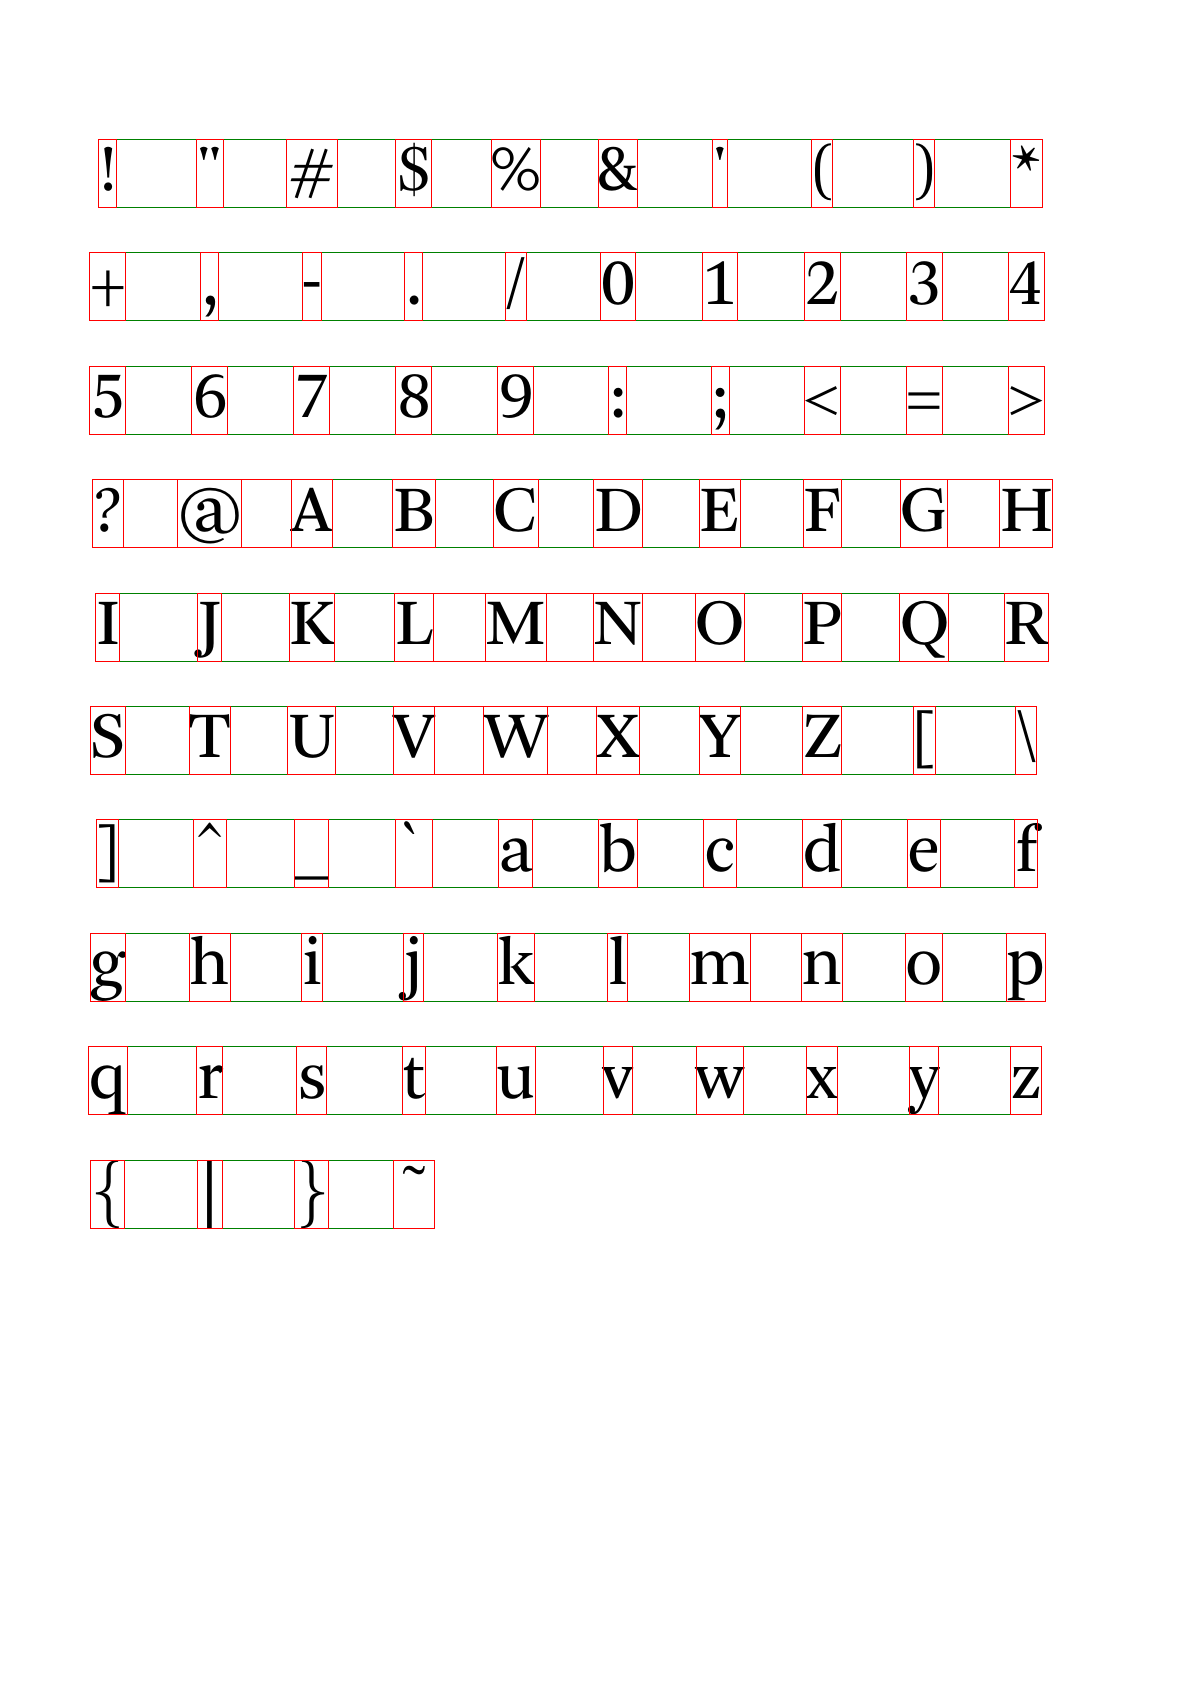
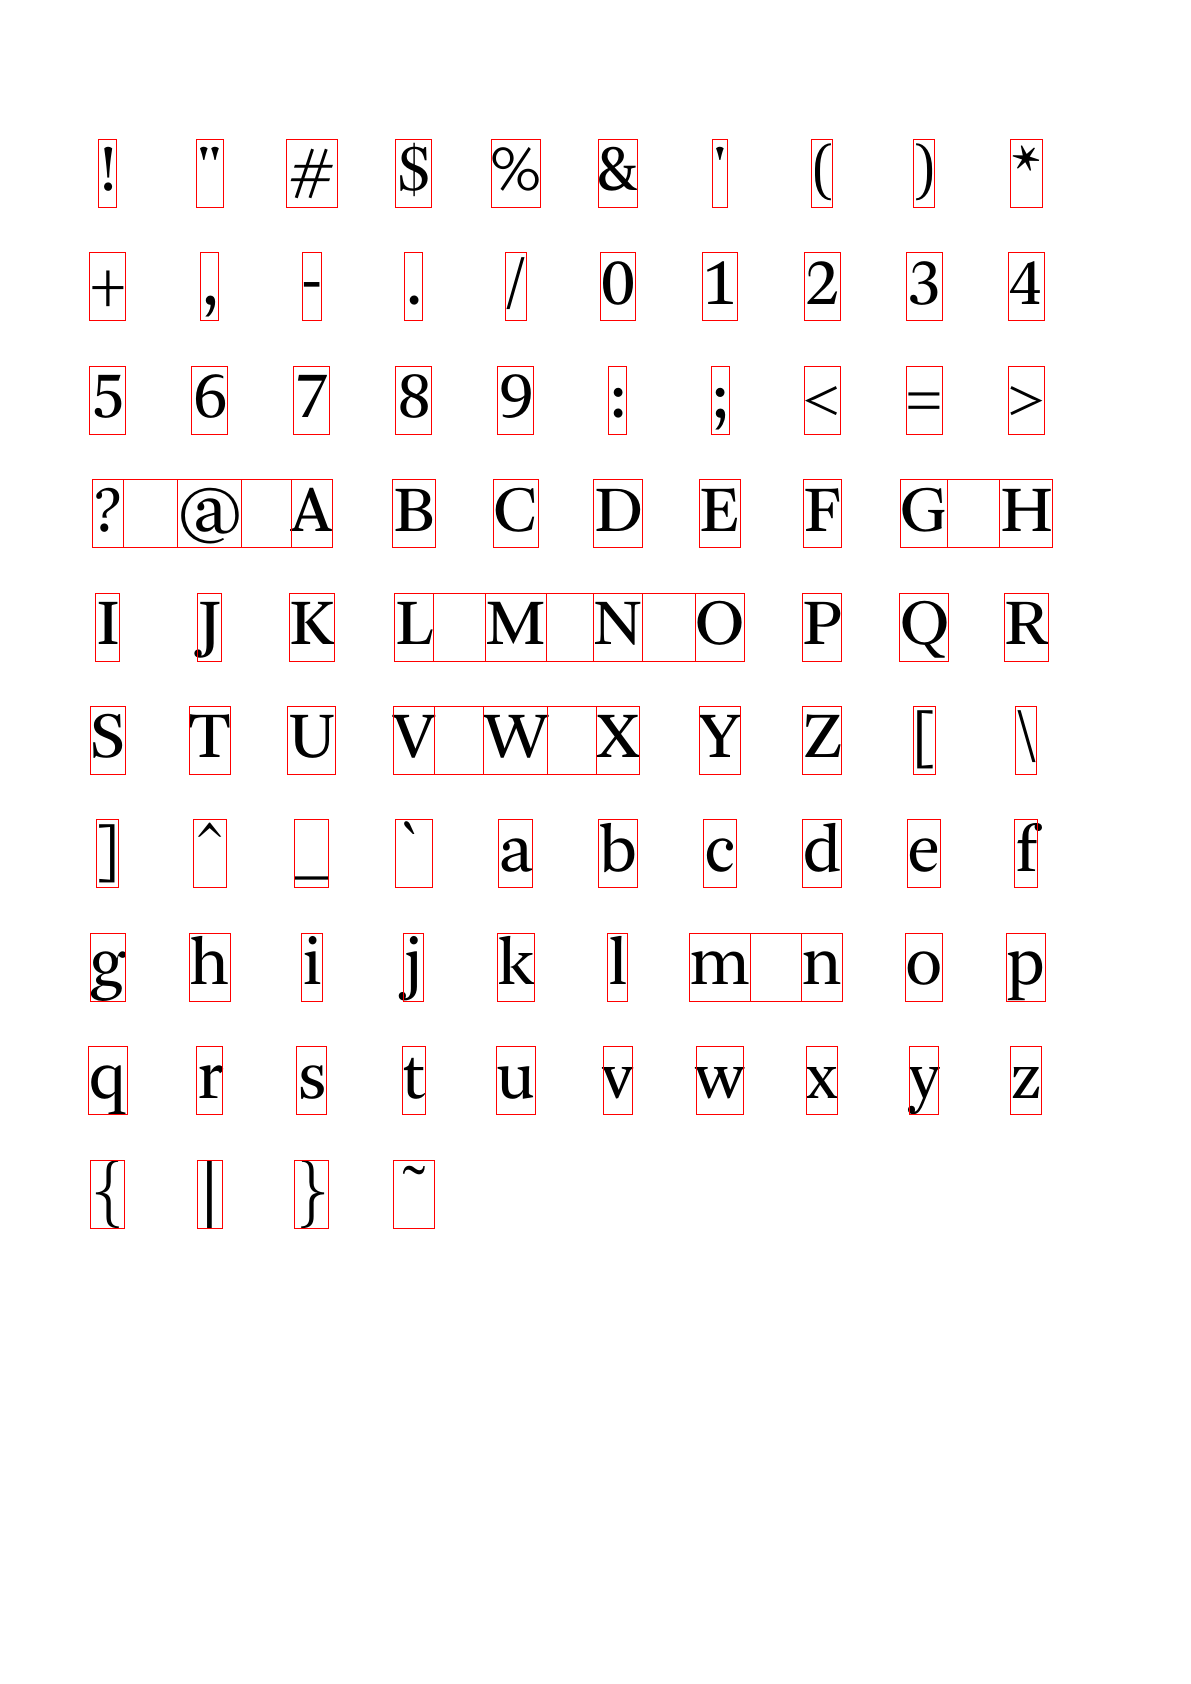
feat(tmp): remove block/line bboxes from Arnhem Blond investigation

diff --git a/tmp/arnhem-blond_bbox/analyze.py b/tmp/arnhem-blond_bbox/analyze.py
@@ -53,13 +53,12 @@ def analyze_and_draw(pdf_path, font_path, base_dir):
         b_bbox = [c * zoom for c in block["bbox"]]
         b_type = block["type"]
         
-        # Draw block bbox in green to distinguish from char bboxes
-        draw_glyph.rectangle(b_bbox, outline="green", width=1)
+        # REMOVED: draw_glyph.rectangle(b_bbox, outline="green", width=1)
         
         if b_type == 0: # Text block
             for line in block["lines"]:
                 l_bbox = [c * zoom for c in line["bbox"]]
-                draw_glyph.rectangle(l_bbox, outline="yellow", width=1)
+                # REMOVED: draw_glyph.rectangle(l_bbox, outline="yellow", width=1)
                 
                 for span in line["spans"]:
                     font_size = span["size"]

diff --git a/tmp/arnhem-blond_bbox/README.md b/tmp/arnhem-blond_bbox/README.md
@@ -18,8 +18,6 @@ Source: [FontsGeek - Arnhem Blond](https://fontsgeek.com/fonts/arnhem-blond/down
 ## Visualization Key
 -   **Red Rectangles**: Glyph BBox (theoretical).
 -   **Blue Rectangles**: Actual BBox (pixel-based).
--   **Green Rectangles**: Block BBox.
--   **Yellow Rectangles**: Line BBox.
 
 ## How to Run
 ```bash
